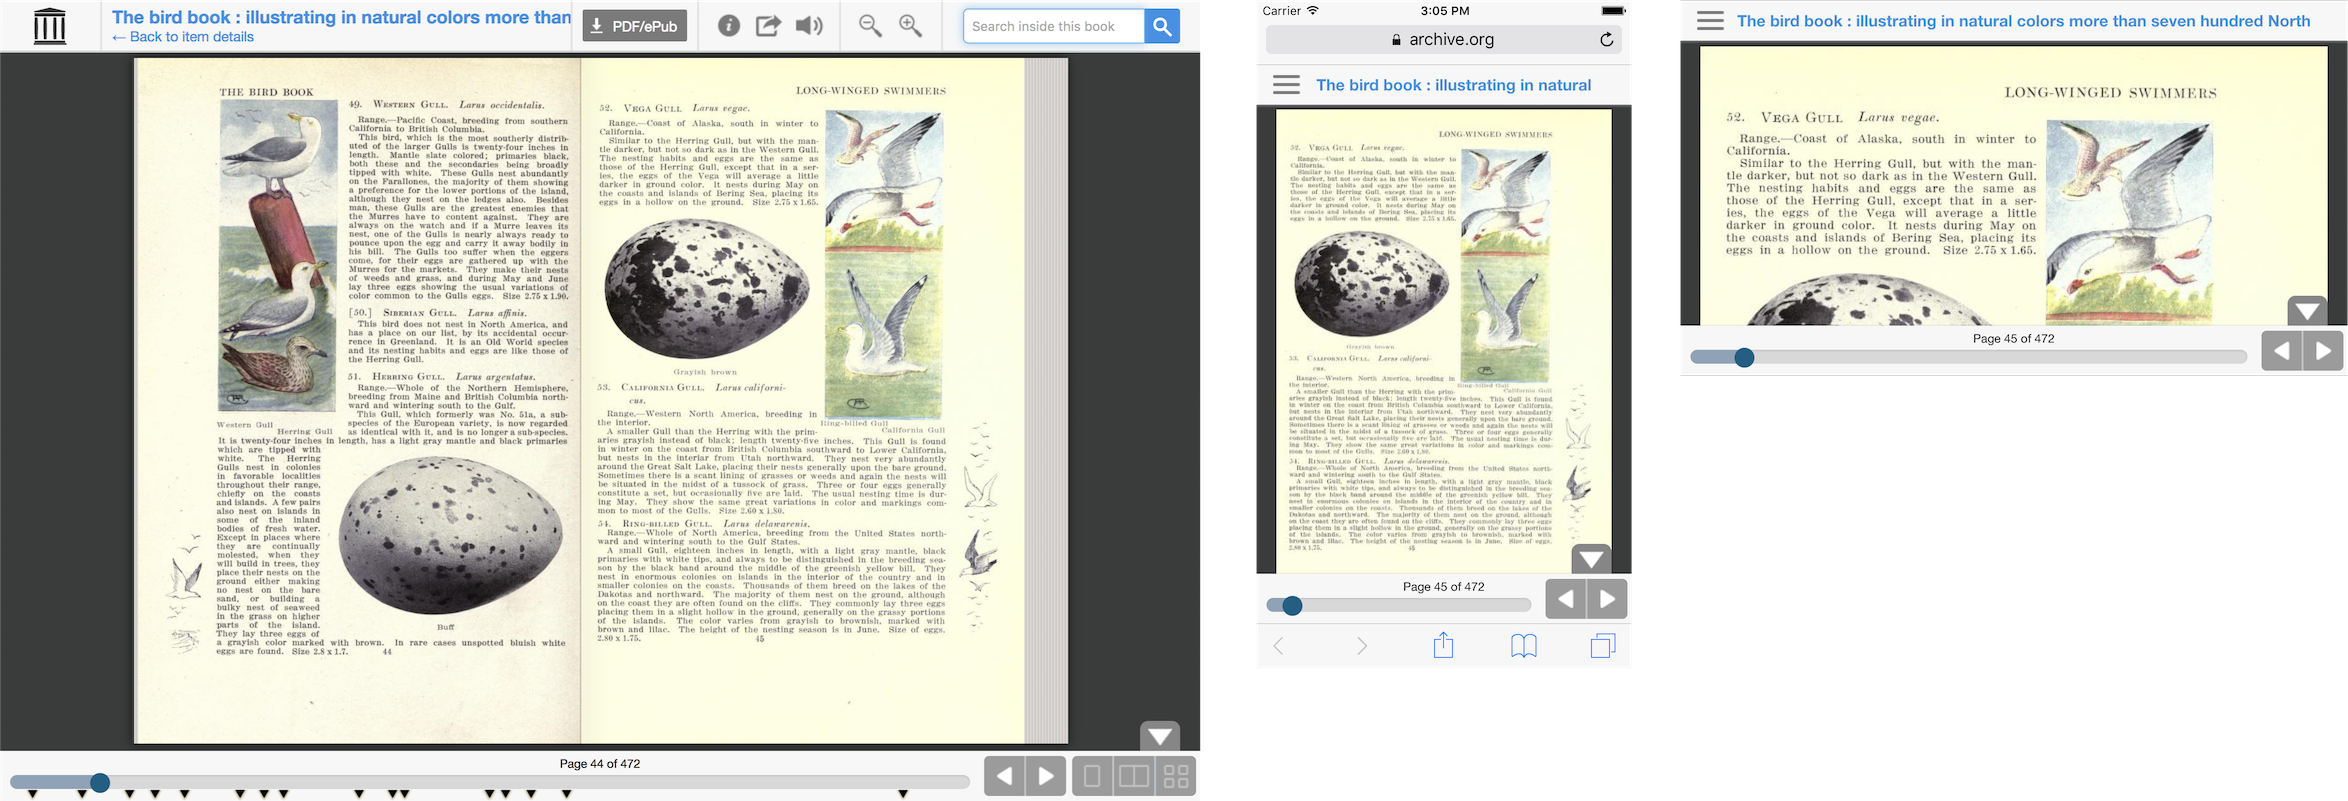
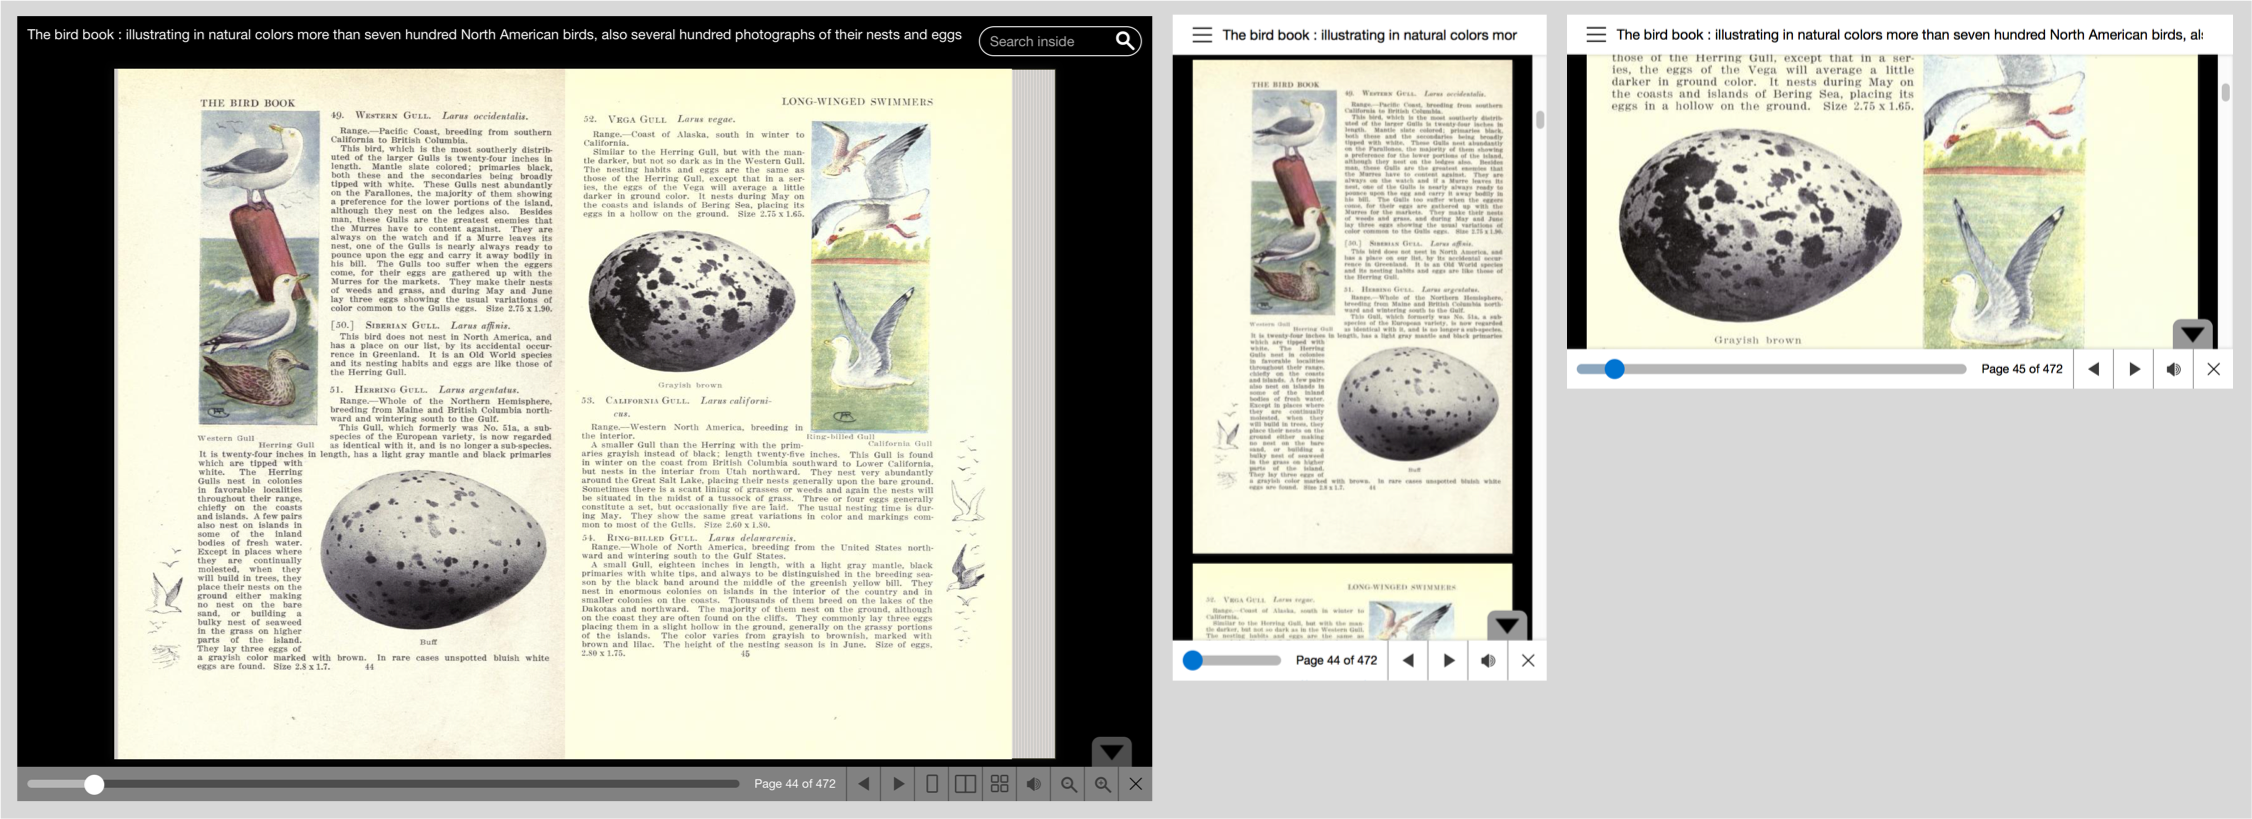
Updates for v4-beta release

diff --git a/README.md b/README.md
@@ -110,6 +110,7 @@ The Fragment Change message is sent to the parent window when the embedded BookR
 
 At the time of writing, all of BookReader's JS codebase does not use any compilation. The source files are edited directly. However, the CSS is built with SCSS. Use `npm run build` to build the scss file.
 
+The sass compiler will need to be installed.
 
 ## Tests
 
@@ -134,38 +135,10 @@ See `BookReaderDemo/demo-iiif.html` to see an example of how to load a IIIF mani
 Note that BookReader is a core part of Archive.org's mission of Universal Access to All Knowledge. Therefore, care must be taken to support legacy browsers. It should still work and be useable on old devices.
 
 
-## Notes about version 4 (WIP)
-
-V4 was driven by updating BookReader to work inline on the archive.org details page. This required code refactoring (eg: changing ids to classes), and also updating the design so it integrates well with the details page.
-
-- BookReader selectors made relative to BookReader. This means it shouldn't interfere with parent page, and also more than one BookReader instance can be on the page.
-- CSS converted to SASS and refactored.
-- New design with full-screen support.
-- URL plugin is extended to support replaceState, and also configure which params are reflected into the URL fragment.
-- WIP JavaScript code is formatted with Prettier (2 spaces instead of 4)
-
-
-## Notes about version 3
-
-- Make BookReader easier to use, by adding `options` to the constructor, and adding new `options.data` option. The old way of overriding properties should still work, but it is deprecated.
-- Factor out extra features into plugins. See `plugins` directory.
-- Clean up code: Remove a lot of commented-out code. Remove some unused methods.
-- Change some, but not all, CSS ids to classes.
-
-See the CHANGELOG.md for more information.
-
-
-## Notes about version 2
-
-Some of the new features in version 2:
-- Updated look for desktop
-- Improved mobile support
-- Fix issues with Text to Speech in browsers that don't support Flash
-- Remove PHP backend code from this repository and only include frontend code
-
-
 ## Areas for improvement
 - Change libraries to be NPM dependencies rather than included in the source code
+
+See [CHANGELOG.md](CHANGELOG.md) for history of the project.
 
 
 ## Contributing

diff --git a/CHANGELOG.md b/CHANGELOG.md
@@ -1,3 +1,12 @@
+# 4.0.0-beta
+V4 was driven by updating BookReader to work inline on the archive.org details page. This required code refactoring (eg: changing ids to classes), and also updating the design so it integrates well with the details page.
+
+- BookReader selectors made relative to BookReader. This means it shouldn't interfere with parent page, and also more than one BookReader instance can be on the page.
+- CSS converted to SASS and refactored.
+- New design with full-screen support.
+- URL plugin is extended to support replaceState, and also configure which params are reflected into the URL fragment.
+- WIP JavaScript code is formatted with 2 spaces instead of 4
+
 # 3.2.1
 - Fix so initParams normalizes params.page to params.index, to prevent complexity of priority of page versus index.
 
